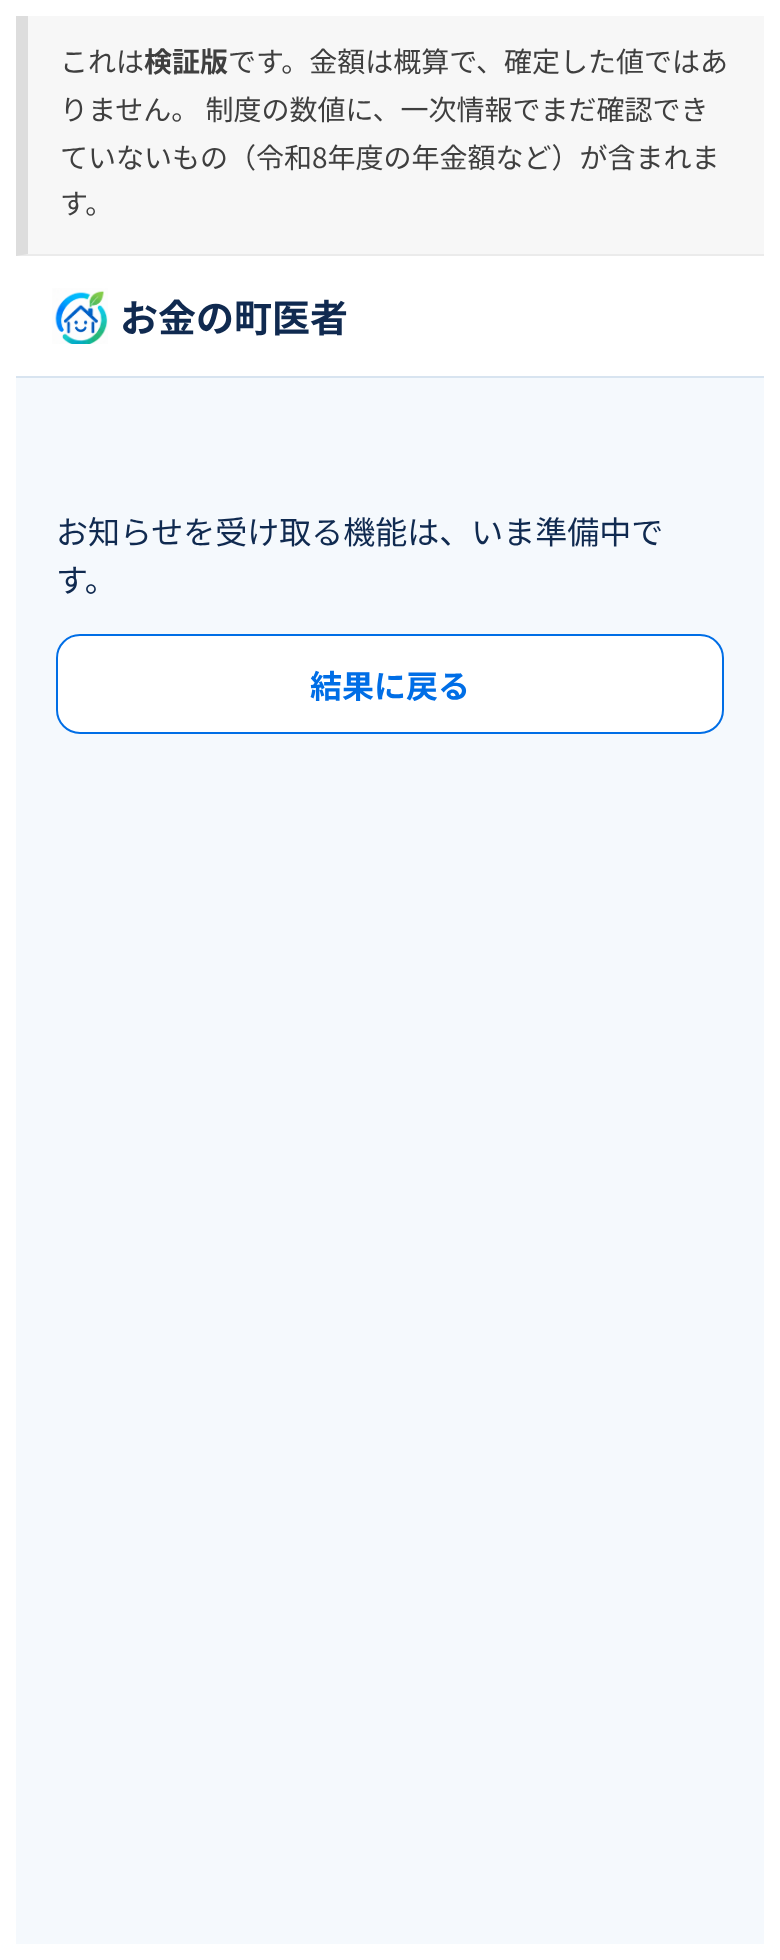
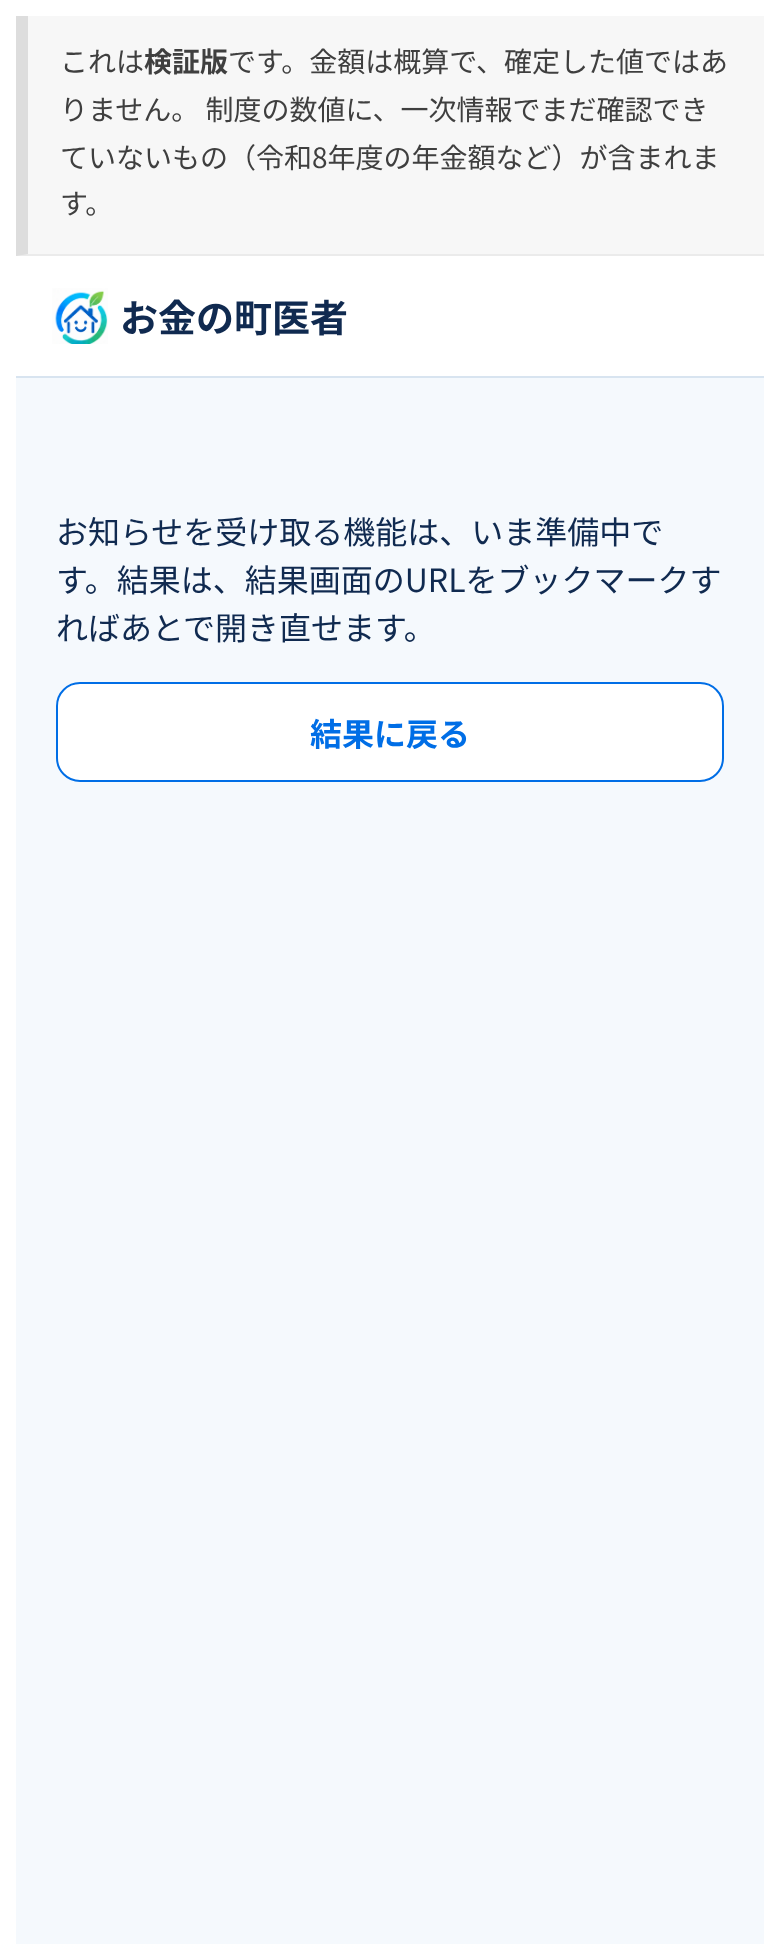
fix(wizard): 死亡保険金の選択肢を単位の途中で折らない（UX レビュー）
320px で2列の「1,000万／円」「1億以／上」が単位の途中で折れていた。
金額は折らず、幅が足りなければ1列に落とす。「加入していない」「分からない」は1行ぶん使う。
保存の準備中画面に、いまできる残し方（結果の URL をブックマーク）を1文足した。
お知らせ画面のスクショを足し、ヘッダーと重なる小見出しを外し、削除ボタンを 44px にした。

Claude-Session: https://claude.ai/code/session_01Fzmq9nUFPsWJRPivmmEeQQ

diff --git a/app/wizard/page.module.css b/app/wizard/page.module.css
@@ -80,13 +80,26 @@
   gap: var(--space-2);
 }
 
-/* 金額の選択肢（死亡保険金の10択）は2列。問いは変えず、縦の長さだけ半分にする */
+/* 金額の選択肢（死亡保険金の10択）は、幅があれば2列。問いは変えず、縦の長さだけ半分にする */
 .choicesGrid {
-  grid-template-columns: repeat(2, minmax(0, 1fr));
+  grid-template-columns: repeat(auto-fit, minmax(136px, 1fr));
 }
 
 .choicesGrid .choice {
-  padding-inline: var(--space-3);
+  gap: 6px;
+  padding-inline: 10px;
+}
+
+/* 先頭（加入していない）と末尾（分からない）は金額ではないので1行ぶん使う。間の8つの金額が2列に並ぶ */
+.choicesGrid .choice:first-child,
+.choicesGrid .choice:last-child {
+  grid-column: 1 / -1;
+}
+
+/* 金額の途中で折らない（320px で「1,000万／円」「1億以／上」と割れた・UX レビュー）。
+   2列に収まらない幅では、上の auto-fit で1列に落ちる */
+.choicesGrid .choice span {
+  white-space: nowrap;
 }
 
 .choice {

diff --git a/app/save/page.tsx b/app/save/page.tsx
@@ -26,7 +26,9 @@ export default async function SavePage({
   if (!SAVE_ENABLED) {
     return (
       <main className={s.page}>
-        <p>お知らせを受け取る機能は、いま準備中です。</p>
+        <p>
+          お知らせを受け取る機能は、いま準備中です。結果は、結果画面のURLをブックマークすればあとで開き直せます。
+        </p>
         <Button href={`/result?${q.toString()}`} variant="secondary" full>
           結果に戻る
         </Button>

diff --git a/app/notice/[token]/page.tsx b/app/notice/[token]/page.tsx
@@ -20,7 +20,6 @@ export default async function NoticePage({ params }: { params: Promise<{ token: 
 
   return (
     <main className={s.page}>
-      <p className={s.eyebrow}>お金の町医者</p>
       <h1 className={s.title}>お子さんの成長で、状況が変わっているかもしれません</h1>
       <p className={s.body}>前回の診断から時間が経っています。ここではまだ金額は出しません。</p>
       <Link className={s.primaryButton} href={`/result?${query}`}>

diff --git a/app/notice/[token]/page.module.css b/app/notice/[token]/page.module.css
@@ -5,11 +5,6 @@
   text-align: center;
 }
 
-.eyebrow {
-  font-size: 12px;
-  color: var(--color-text-muted);
-  margin-bottom: 8px;
-}
 
 .title {
   font-size: 20px;
@@ -39,6 +34,8 @@
 }
 
 .deleteButton {
+  min-height: var(--target-min);
+  padding: 0 12px;
   background: none;
   border: none;
   color: var(--color-text-muted);

diff --git a/tasks/current.md b/tasks/current.md
@@ -162,4 +162,5 @@
 - 本番で診断・結果・保存・お知らせが旧デザインのままだった（`data-theme="fintech"` が付いていたのはトップとラボだけ）。洗い出しと FP 目線の指摘は共有フォルダ `okane-doctor/2026-10-18_app-design-audit/AUDIT.md`。オーナー決定（2026-10-18）：おすすめどおり全部。結果画面は PR #5 のマージ後に別 PR、ラボの文の整理も別 PR
 - この PR：`app/FintechShell.tsx`（テーマ＋ヘッダー）を `/wizard`・`/save`・`/notice` の layout で当てた。ウィザードは問いごとに白いカード、選択はブルーの枠＋薄い青地＋ドット、死亡保険金の10択は2列（縦 2,819→2,071px）、説明文を1文に、準備中の行（保険証券の読み取り）を削除。金額の選択肢をカンマ区切りに。保存の準備中画面の戻り先をボタンに。お知らせ画面の旧名「お金ドクター」を「お金の町医者」に。問い・選択肢の値・URL・計算は変えていない
 - 確認：Playwright でウィザード6ステップを 390/320/1280px、保存を 390px。横スクロールなし・12px 未満の文字なし。お知らせ画面は Firestore が要るため手元では描けず、コードで確認
-- 次の1手：UX レビュー → request-qa → マージ
+- UX レビュー1回目（Codex・0fe6027）：分かりにくい1件（320px で死亡保険金の2列が「1,000万／円」と単位の途中で折れる）→ 金額は折らず、幅が足りなければ1列に。「加入していない」「分からない」は1行ぶん使い、間の8つの金額を2列に。任意：保存の準備中画面に、いまできる残し方（結果の URL をブックマーク）を1文足した。お知らせ画面は手元で描いたスクショ（`notice-fintech-*.png`、Firestore の代わりに一時的な見本データ・コミットしていない）を足し、ヘッダーと重なる「お金の町医者」の小見出しを外し、削除ボタンを 44px に。冒頭の検証版の注意書き（全画面共通の layout）はこの PR では変えない
+- 次の1手：UX 再レビュー → マージ（qa-pass は 0fe6027 で付いた。以降のコミットに docs 以外があるので request-qa もやり直す）
